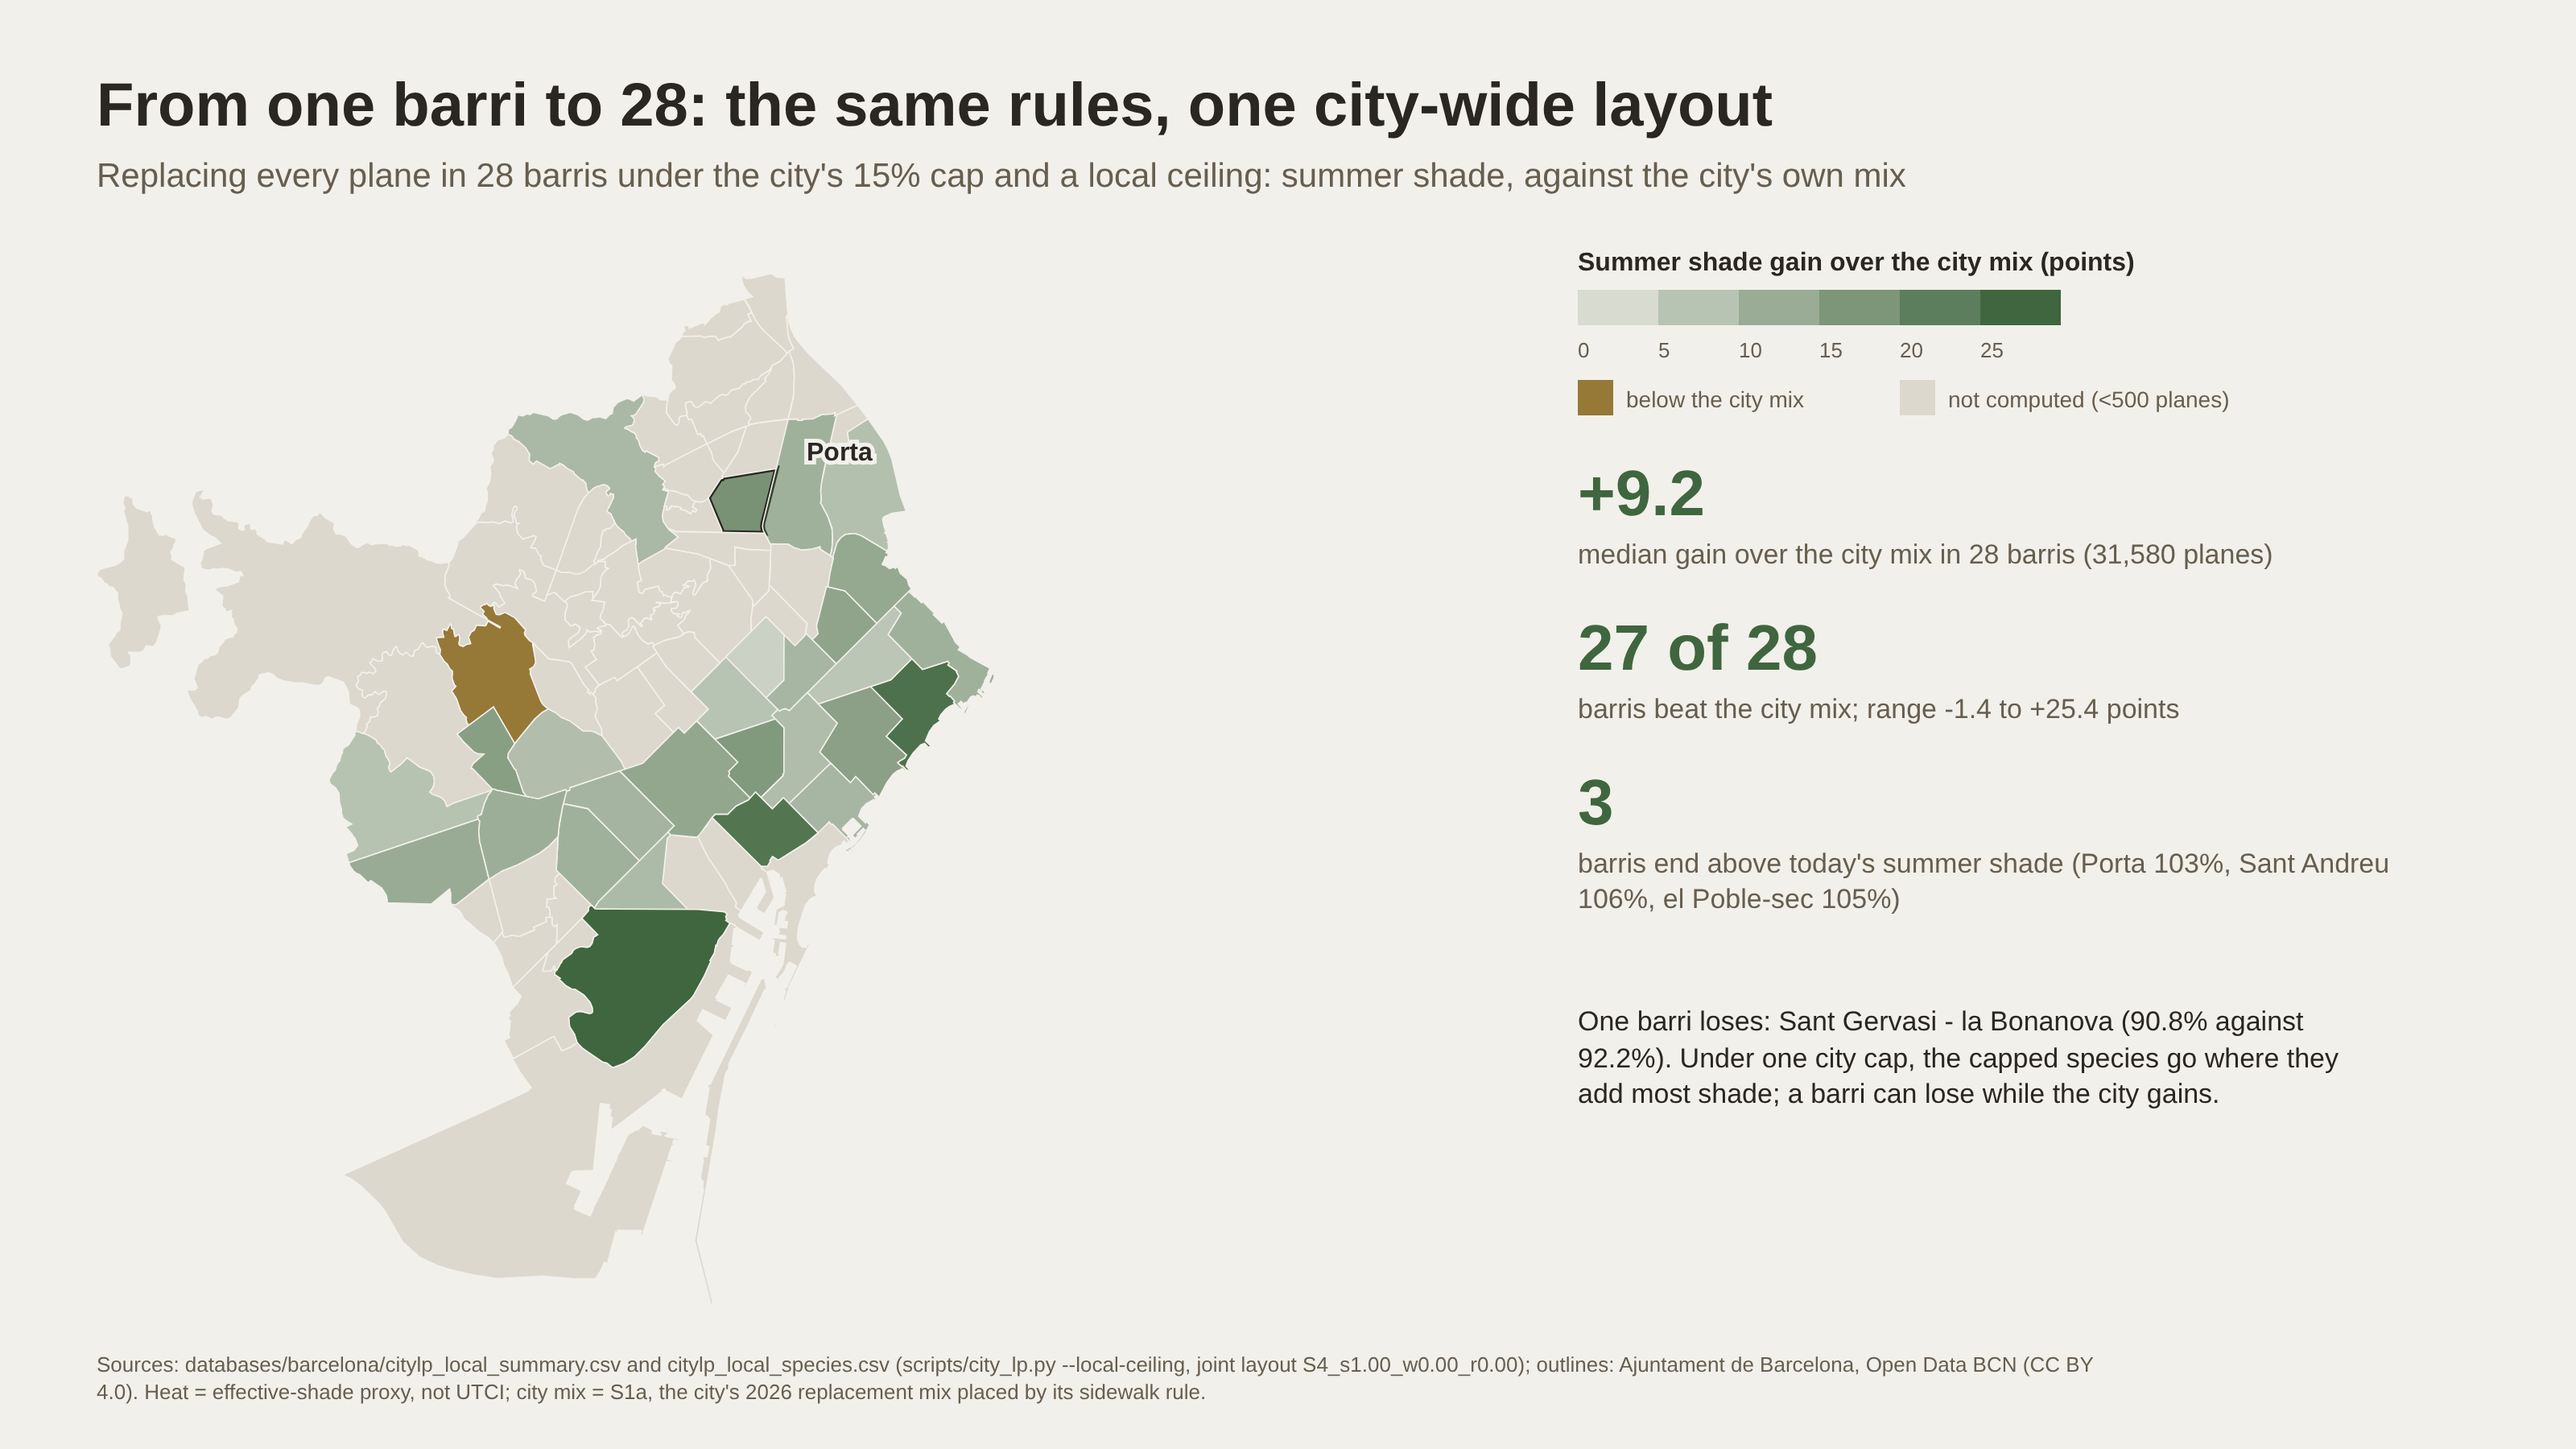
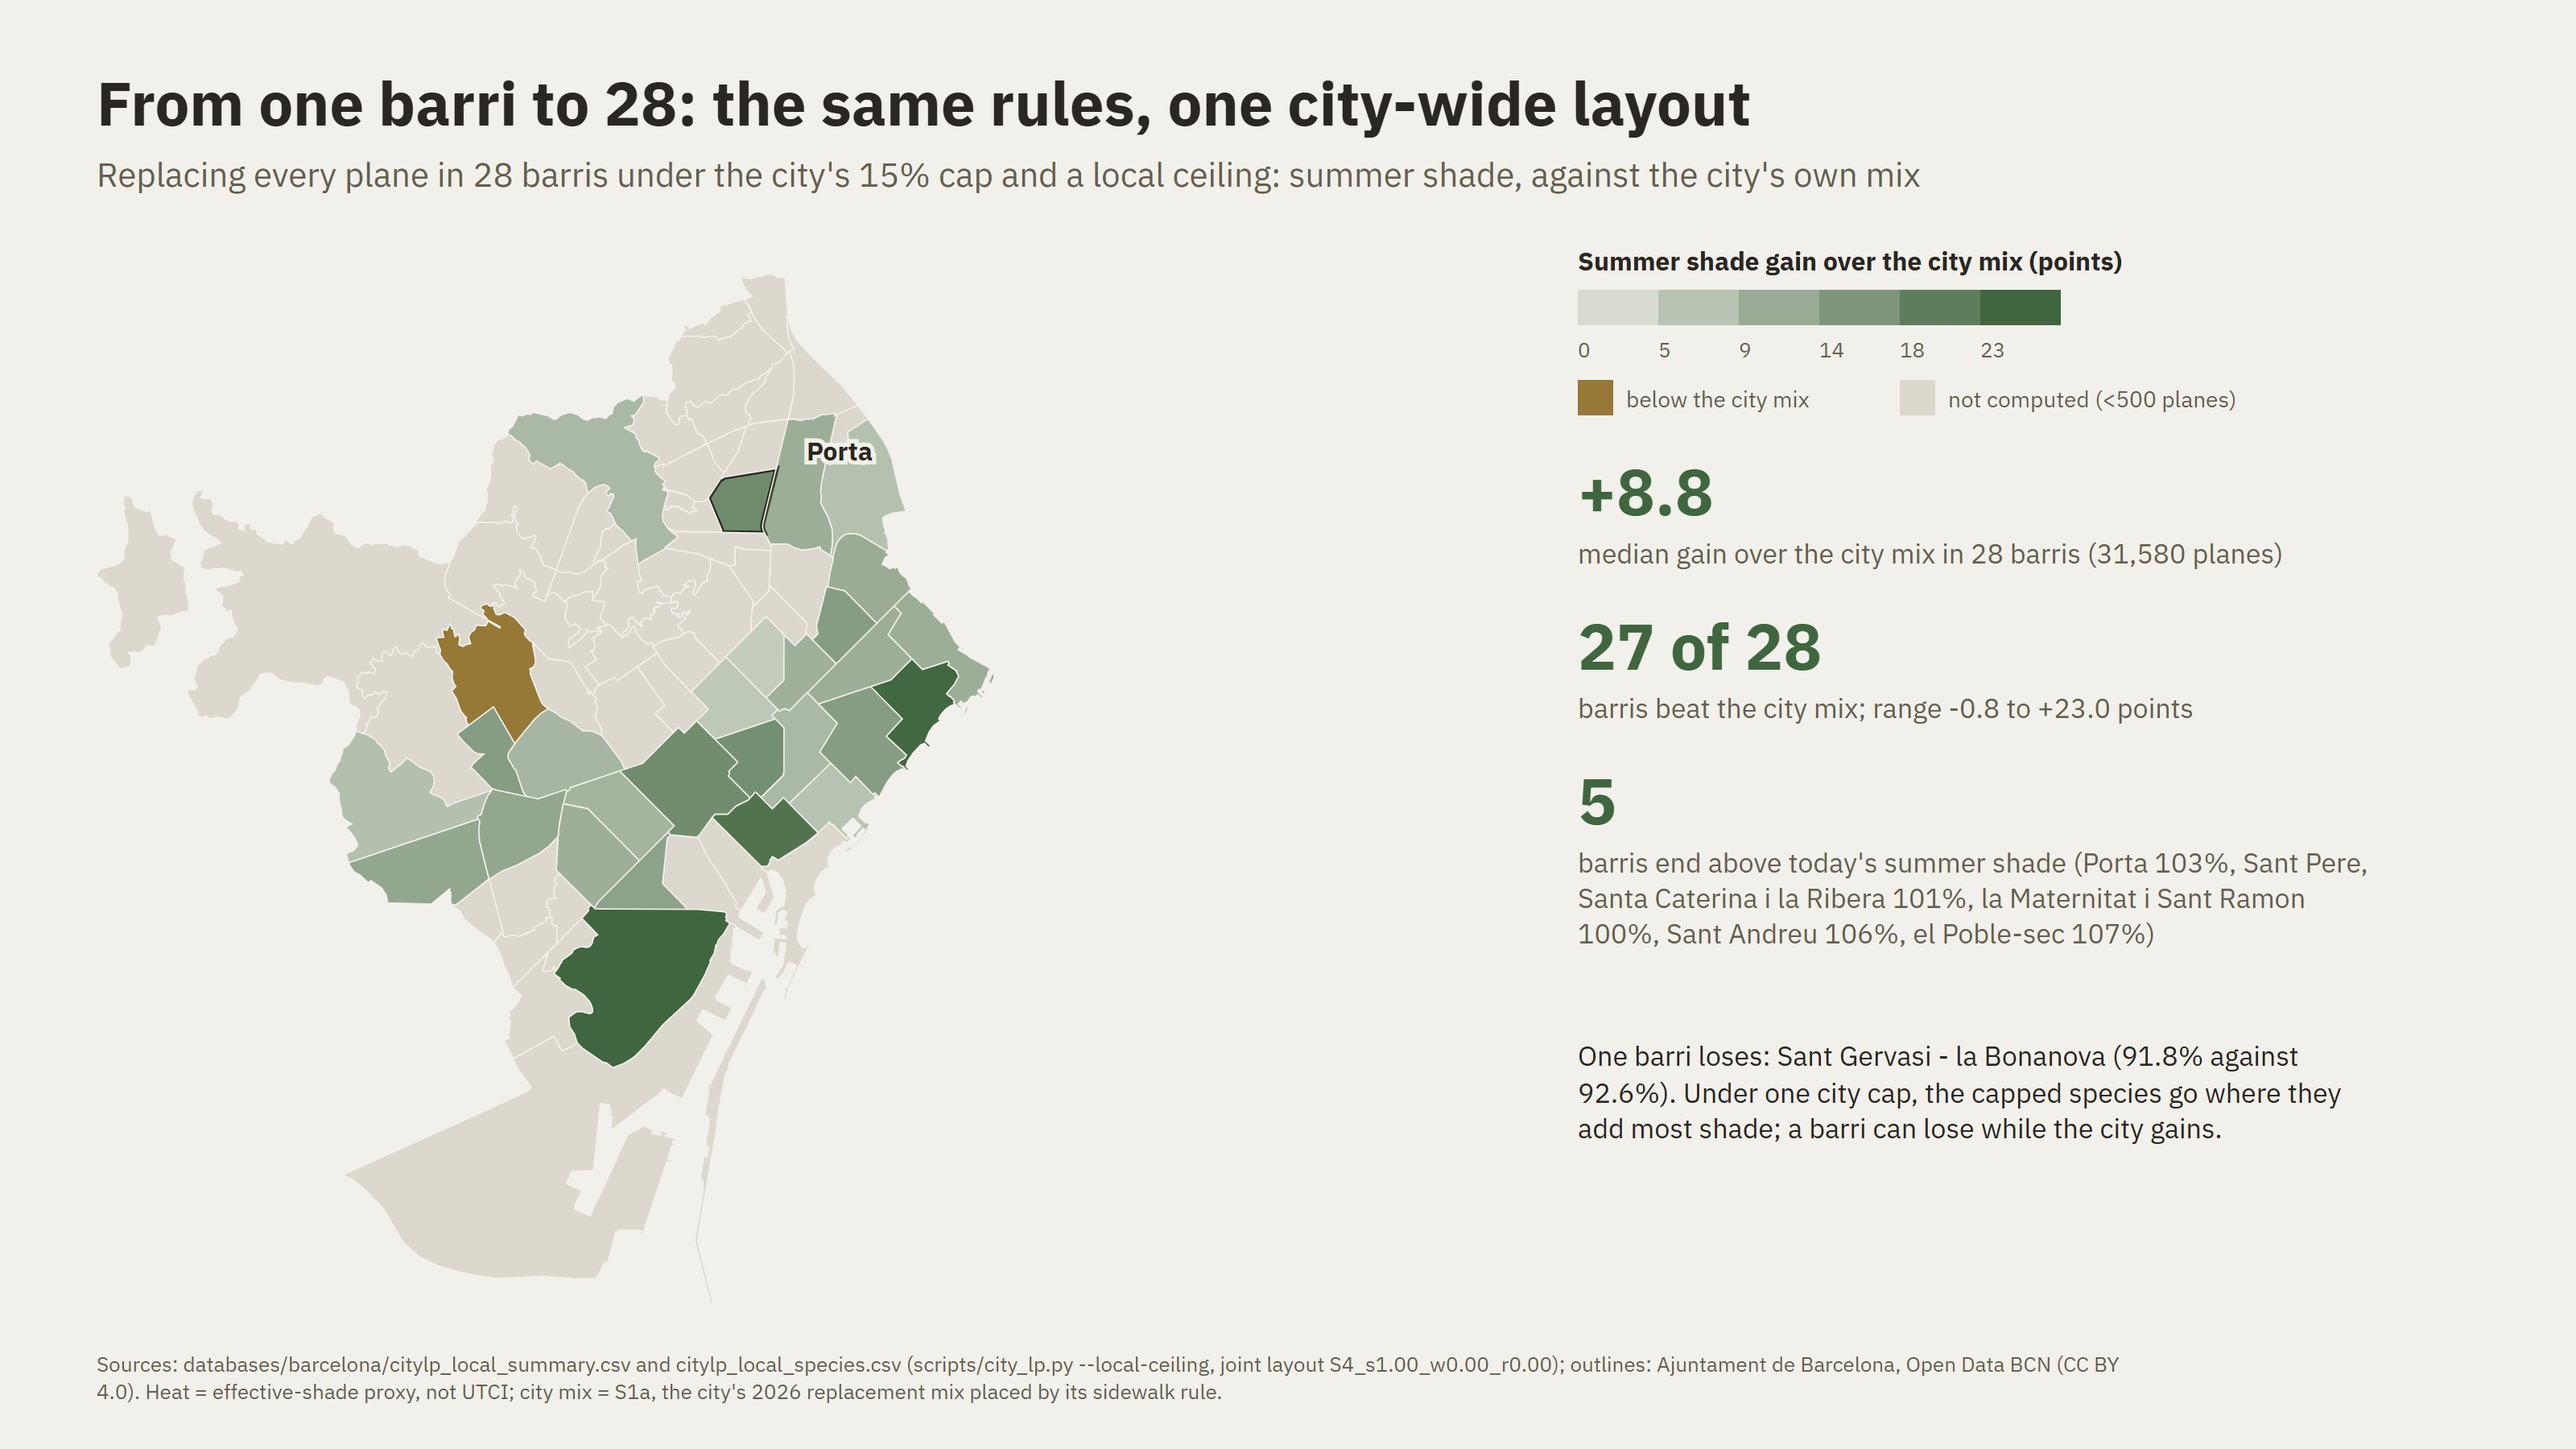
City figures and notes: local ceiling exception (one barri, 5 positions), medians before/after
Claude-Session: https://claude.ai/code/session_01He8HgsPSfr4ooeAQQF2xot

diff --git a/notes/methodology.md b/notes/methodology.md
@@ -87,7 +87,7 @@ Proxy re-computed at the same points and hours (`scripts/compare_ladybug_proxy.p
 ## 6. Optimisation
 - **Decision variables:** species at each replaced plane position (from the feasible palette); optionally, new positions. Since v6 (`notes/topic_decision.md` §9.7): planes on large avenues and emblematic places are kept by the city (2011 guide p. 17), so they leave the decision set once a rule defines them; the method must also work for any subset of positions (replacement happens at death or street works).
 - **Objectives:** f₁ = heat (Tier 1 UTCI metric, or a calibrated shade × τ proxy pre-computed per position), f₂ = runoff volume at T = 2 yr (also reported for T = 1 and 10).
-- **Constraints:** no species >15% within the study area (`ASSUMPTION`: a local reading of the plan's city-wide cap; alternatives in `notes/topic_decision.md` §9.7); species size class = the class the 2011 guide sets for the sidewalk width (pp. 22–23, one class per sidewalk type; allowing smaller classes on wider sidewalks would be an `ASSUMPTION`; needs sidewalk widths per position, `notes/sidewalk_width.md`); diversity floor (Shannon; optional in the tool since 12 Oct, set as an effective number of species exp(H) among the replanted positions, `shade_sponge/README.md`); excluded species (invasive, pest hosts); crown clearance from façades.
+- **Constraints:** no species >15% within the study area (`ASSUMPTION`: a local reading of the plan's city-wide cap; alternatives in `notes/topic_decision.md` §9.7); species size class = the class the 2011 guide sets for the sidewalk width (pp. 22–23, one class per sidewalk type; allowing smaller classes on wider sidewalks would be an `ASSUMPTION`; needs sidewalk widths per position, `notes/sidewalk_width.md`); diversity floor (Shannon; optional in the tool since 12 Oct, set as an effective number of species exp(H) among the replanted positions, `shade_sponge/README.md`); excluded species (invasive, pest hosts); crown clearance from façades. **Local ceiling exception (user decision, 15 Nov).** The local ceiling (no species above today's plane count in a barri) is relaxed only where it would leave a position with no species: where a position fits a single palette species, that species' ceiling is raised to the number of such positions (city LP, `scripts/city_lp.py --local-ceiling`). In the 15 Nov run of Porta + 27 barris it applies in one barri only, el Camp de l'Arpa del Clot: Celtis australis 0 → 5 trees (5 single-fit positions). Elsewhere the ceiling binds unchanged.
 - **Algorithm:** NSGA-II, in Python with `pymoo` (fast proxies) or in Grasshopper with Wallacei. The final Pareto layouts are re-checked with Tier 1/Tier 2 UTCI.
 - **Implemented v0 (8 Oct, `shade_sponge/`):** weighted-sum transportation LP instead of NSGA-II, with the shade × τ heat proxy, a topography-aware runoff target (runoff reaching flood hotspots, via DTM flow routing) and façade clearance. First result: no trade-off within the city palette (the front collapses). Adding the leaf-on calendar and season-weighted storms (Esbrí et al. 2026) does not change this: 78% of intense storm days fall in May–Oct, when all palette species are in full leaf. **Winter sun access** (winter shade on sunlit open ground as a cost, 15 Jan 10–15 h; leafless crowns cut ~35% of sunlight) creates the first real trade-off: beyond the balanced layout, winter sun costs summer shade. Re-run 15 Oct with seven species and the photo-based leaf calendar (Jacaranda mostly in leaf in January; `notes/decisions/leaf_state_inat.md`): the no-regret step summer-only → balanced (~90 Tipuana → Jacaranda) cuts winter shade by only 2% at equal summer shade (−2.3% in the 20 Oct re-run, which adds leaf calendars for Porta's kept trees of the shortlist species (about 92% of its LiDAR-measured non-plane trees; the other kept species, e.g. Morus alba, stay in full leaf, ASSUMPTION)), and the swap vanishes in 3 of 8 sensitivity variants (Tipuana bare in Jan–Feb, design day 21 Dec or 15 Feb). The +16% summer gain vs a random palette and the trade-off beyond balanced are robust (winter-heavy vs balanced: winter shade −14 to −23%, summer shade −17 to −20%; the winter-heavy layout uses the winter-bare Pyrus and Styphnolobium instead of Tipuana). Superseded (old calendar, Jacaranda bare Jan–Mar, 8 Oct): no-regret gain −9%, −2 to −12% across variants. Tipuana's winter leaf state: Santos Nouri et al. (2018) model Tipuana in Lisbon as leafed in winter (leafless only in early spring in Iberia, as cited), with PET up to 2.7 °C lower under the crown at noon in December. The leaf state is an input cited from Viñas & Solanich, not observed, so it is consistent with the tool's base case (leafed in January); Barcelona iNaturalist photos confirm it (all 20 determinable January photos in leaf; `notes/decisions/leaf_state_inat.md`). Field support for the winter term: in Coimbra (Csa), clear-winter midday air under leafless deciduous crowns was occasionally 0.3–0.7 °C warmer than under evergreens (Rochette Cordeiro et al. 2026). **Barcelona shortlist (9 Oct, re-run 20 Oct):** 34 species common in Barcelona's streets, crowns from LiDAR on 3 tiles (one shared with Porta); optimised layouts then match the mature planes on summer shade (+0.9% balanced) and the summer–winter front widens, but a few species dominate (Ulmus pumila + Pinus pinea = 84% of positions in the balanced layout). **Optional diversity floor (12 Oct):** at least N effective species, exp(Shannon H) as in SylvCiT, linearised inside the LP; N = 10 brings those two species down to 52% for −2.0% summer shade. Details and limits in `shade_sponge/README.md`.
 - **Surrogate precedent (12 Oct):** in an evolutionary search with a graph-network surrogate, the best architecture found reaches a mean test accuracy of 94.22% on NAS-Bench-101 after 1,000 queries (architecture evaluations) (Xue et al. 2026, matrix #90, abstract). Same motivation as our proxies (fewer true evaluations per search); the mechanism differs, since their surrogate is trained online and our shade × τ proxy is analytic.

diff --git a/notes/barris_buildings_1000.md b/notes/barris_buildings_1000.md
@@ -46,4 +46,4 @@ Margins are the summer-shade share of today (S0) of the optimised layout with th
 - Building counts grow about tenfold (the map splits blocks into volumes); median roof share 31.9% → 30.9%.
 - **Why S0 runoff falls (checked 13 Nov): the green areas, not the buildings.** The runoff change follows the change in pervious ground one to one (correlation −1.0 over the 32 barris; with the roof-share change 0.18). In 16 barris pervious ground rose by 1.5–22 points, because the 28–31 Oct runs lacked most of the OSM parks/gardens/grass layer: Overpass was down on 28–29 Oct and `site.py` then only prints a warning and goes on with NDVI alone (the batch-2 barris used a local extract, which may hold fewer green polygons; not checked one by one). Verified for Diagonal Mar: pervious 5.6% → 27.4% of the 122.7 ha domain, roofs 13.6% → 13.2%, S0 runoff −21%; rebuilding it with the new footprints but without OSM green gives 5.6% again, so the buildings are not the cause. In barris whose old run had the green layer the change is under 0.2 points (Sant Antoni: pervious 3.0% → 2.9%, runoff −0.0%; Porta −0.1%). Domain and grid are unchanged in every barri. The new values are the more correct ones: the model is meant to count OSM parks and grass as pervious. Sant Gervasi - la Bonanova (12.7% → 18.0%) is one of the 16.
 - la Verneda i la Pau and Sant Gervasi - la Bonanova were first rebuilt while Overpass was down; both were rerun on 13 Nov with the green layer.
-- **Open:** the city-wide LP with the local ceiling (`scripts/city_lp.py --local-ceiling`, Porta + 27) is now infeasible: in el Camp de l'Arpa del Clot (496 planes) the ceiling leaves Celtis 0 trees, and some positions fit no other species under the new façade distances. `citylp_*` tables and the city slide figures are therefore still the 31 Oct ones. The Barcelona-palette (30 species) per-barri runs were not redone either.
+- Solved 15 Nov: the city-wide LP with the local ceiling (Porta + 27) was infeasible in el Camp de l'Arpa del Clot (the ceiling left Celtis 0 trees where 5 positions fit no other species). With the single-fit exception (user decision, 15 Nov) it is feasible; `citylp_*` tables and `slides/fig_v7/res_04`, `res_05` regenerated. City LP (Porta + 27 barris) rerun 15 Nov: medians, city LP summer shade 84.5 → 87.3% of today, city mix S1a 75.3 → 77.4%, gain over S1a 9.3 → 8.8 pts; winter shade 114.0 → 114.7%; hotspot runoff change +0.75 → +0.65%. The LP beats S1a in 27 of 28 barris, as before (the one that loses: Sant Gervasi - la Bonanova, 91.8 vs 92.6%). The Barcelona-palette (30 species) per-barri runs were not redone.

diff --git a/notes/citywide_plan.md b/notes/citywide_plan.md
@@ -302,3 +302,5 @@ Reading:
 
 ### 6.10 All barris rebuilt with 1:1000 map footprints (12–13 Nov)
 Since 13 Nov every barri takes its building footprints from the city 1:1000 map (layer `Polígons_construccions`, CC BY 4.0), as Porta does; the OSM / LiDAR-traced footprints described in §6.7 are superseded. Before/after per barri, and the two open points (2 barris without OSM green areas; the local-ceiling city LP now infeasible): `notes/barris_buildings_1000.md`.
+
+**Local ceiling exception (user decision, 15 Nov).** The local ceiling (no species above today's plane count in a barri) is relaxed only where it would leave a position with no species: where a position fits a single palette species, that species' ceiling is raised to the number of such positions (`scripts/city_lp.py --local-ceiling`). In the 15 Nov run of Porta + 27 barris it applies in one barri only, el Camp de l'Arpa del Clot: Celtis australis 0 → 5 trees (5 single-fit positions). City LP (Porta + 27 barris) rerun 15 Nov: medians, city LP summer shade 84.5 → 87.3% of today, city mix S1a 75.3 → 77.4%, gain over S1a 9.3 → 8.8 pts; winter shade 114.0 → 114.7%; hotspot runoff change +0.75 → +0.65%. The LP beats S1a in 27 of 28 barris, as before (the one that loses: Sant Gervasi - la Bonanova, 91.8 vs 92.6%).
